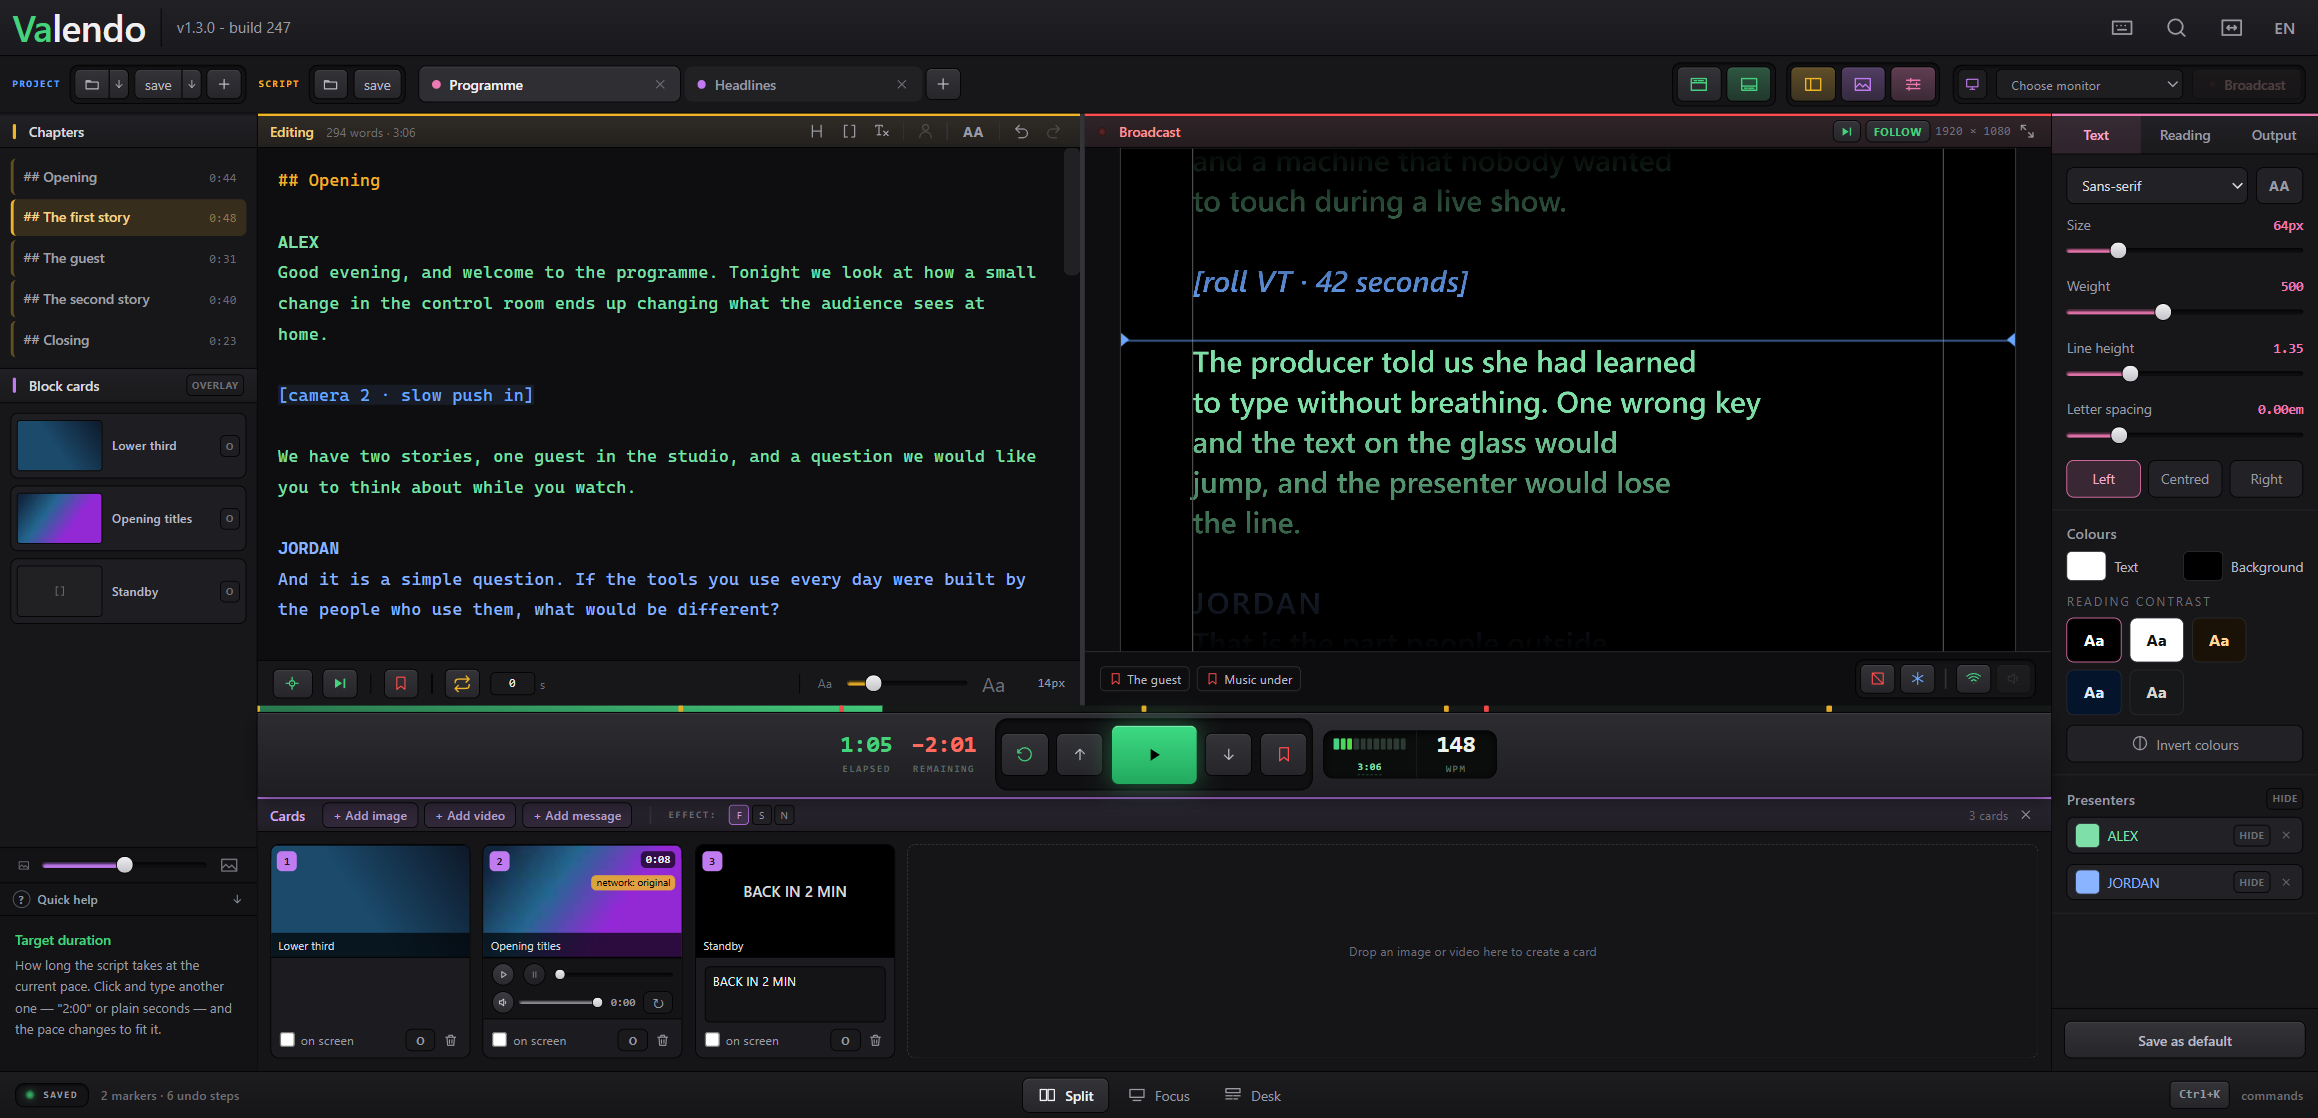
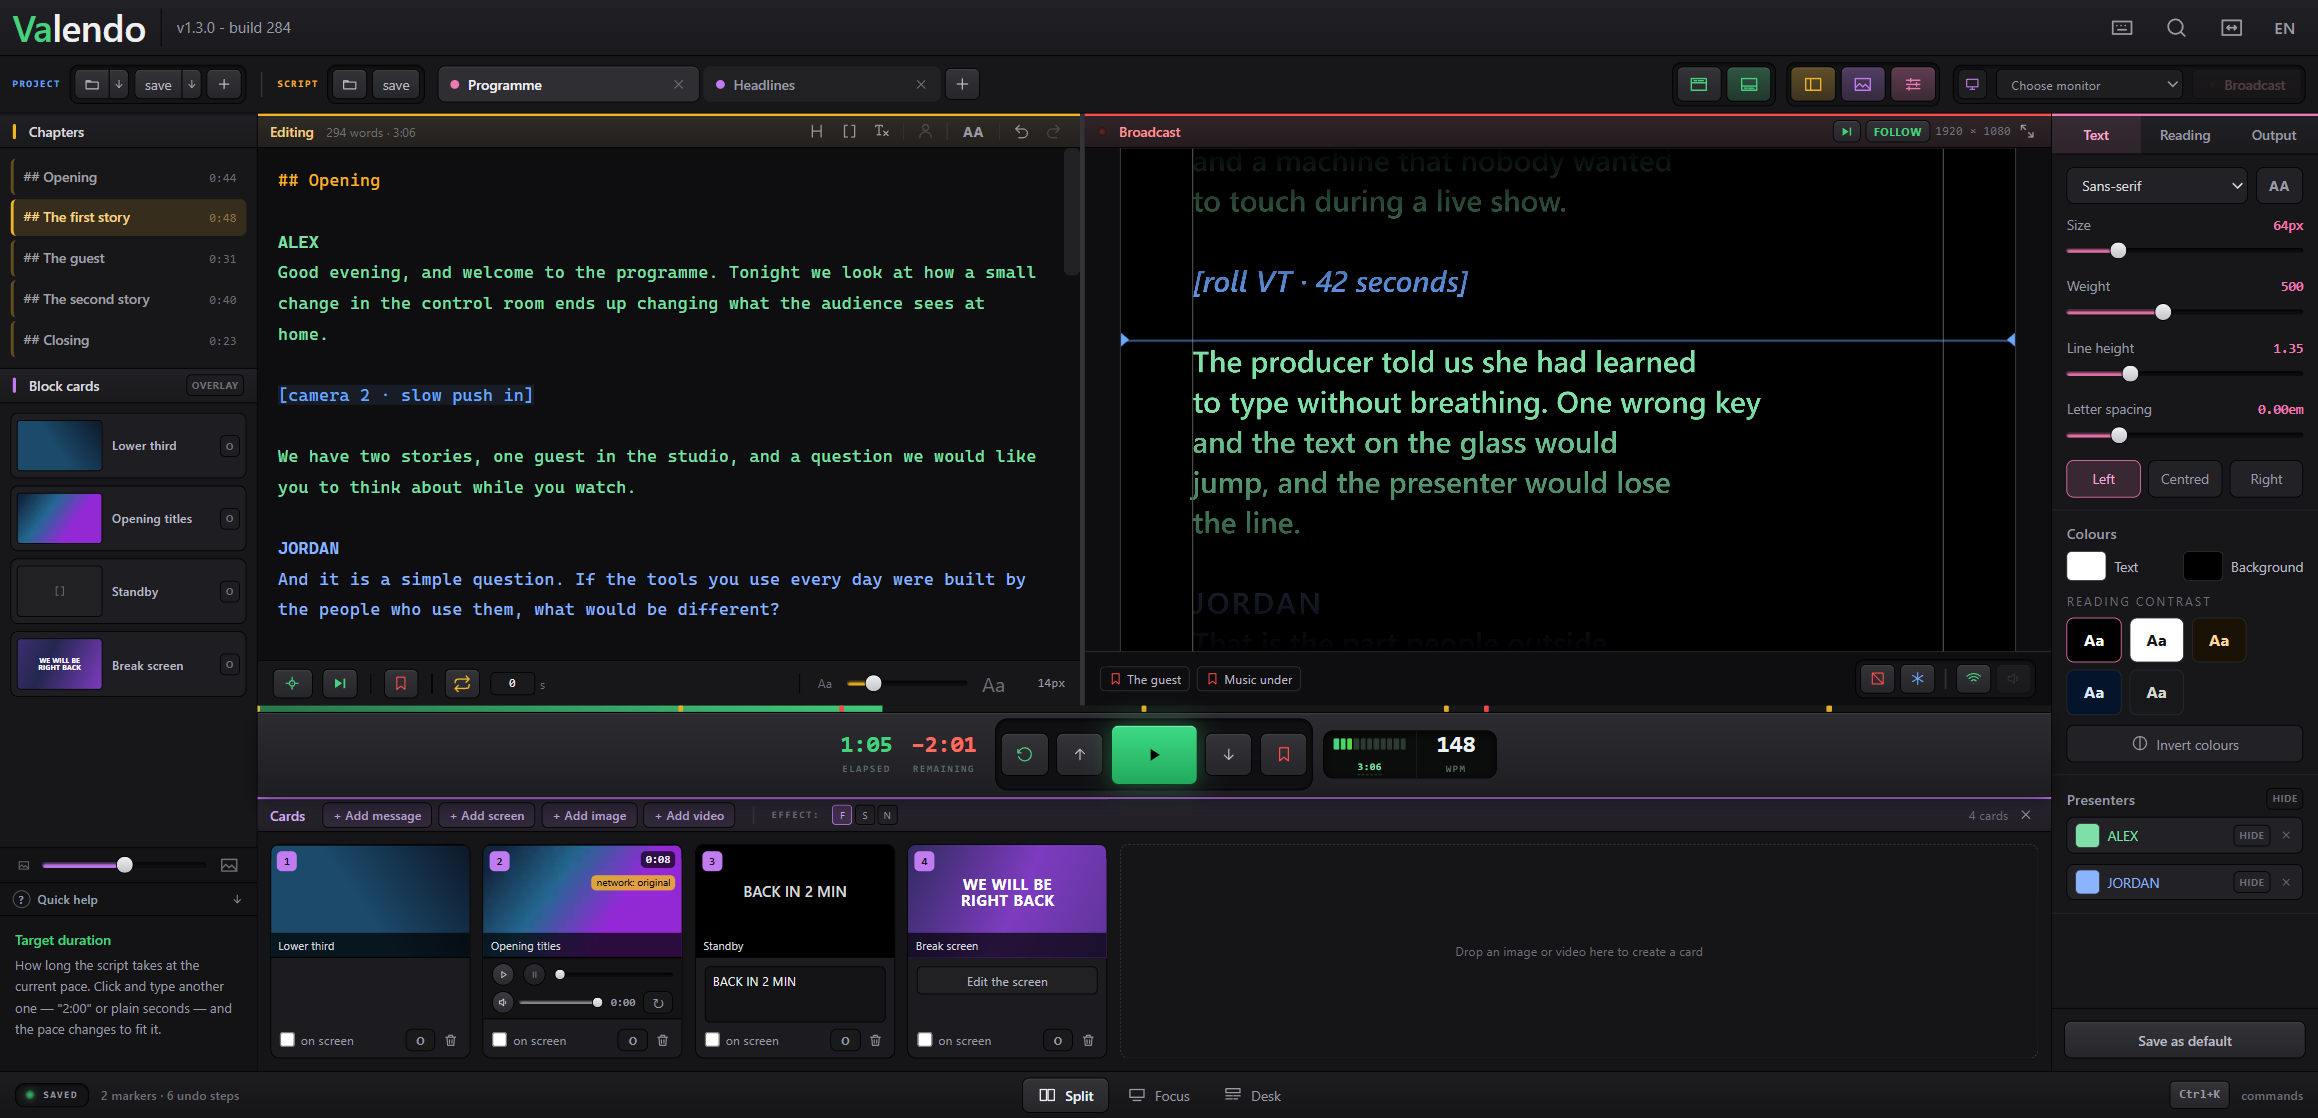
README e capturas: o cartão de tela e as abas que se arrastam
Duas coisas entraram no app depois da 1.3.0 e não estavam documentadas
em lugar nenhum: o CARTÃO DE TELA (cor, gradiente ou um dos seis fundos
animados, com recado por cima, sem arquivo nenhum) e as ABAS que se
duplicam pelo botão direito e se arrastam para reordenar.

A campanha ganhou cinco capturas: o editor de tela em janela e recortado,
a grade dos seis efeitos, a tela no ar, e o menu do botão direito na aba.
O cartão de tela entrou na montagem, então a gaveta agora fotografa os
QUATRO tipos.

Duas capturas estavam mentindo, e as duas pelo mesmo motivo — subir um
número fixo de níveis a partir de um filho deixou de chegar na fileira
quando o arrasto embrulhou cada item num wrapper próprio:

  d17-cards-row  saía com UM cartão, não com a fileira
  d06-tabs       saía com UMA aba, e o site a legendava como se fossem
                 as abas dos Ajustes

As duas passam a subir até o ancestral que contém DOIS itens, que acha a
fileira sem depender de quantas camadas de embrulho existem hoje.

De quebra: `cards.max` ("São seis cartões, o número de atalhos") saiu dos
seis dicionários. O teto de seis não existe mais — são nove ATALHOS e
cartões à vontade —, e a chave já não era usada por ninguém.

Feito com Claude Code

diff --git a/src/shared/i18n/es.ts b/src/shared/i18n/es.ts
@@ -454,7 +454,6 @@ export const es: Dicionario = {
   'cards.count_1': '{n} tarjeta',
   'cards.count_n': '{n} tarjetas',
   'cards.blackoutWins': 'La pantalla negra está encendida y tapa la tarjeta.',
-  'cards.max': 'Son seis tarjetas, el número de atajos.',
   'cmd.card.hide': 'Quitar la tarjeta de la pantalla',
   'cmd.card.show': 'Mostrar la tarjeta {n}',
 

diff --git a/src/shared/i18n/it.ts b/src/shared/i18n/it.ts
@@ -456,7 +456,6 @@ export const it: Dicionario = {
   'cards.count_1': '{n} cartello',
   'cards.count_n': '{n} cartelli',
   'cards.blackoutWins': 'Lo schermo nero è acceso e copre il cartello.',
-  'cards.max': 'Sei cartelli, quante sono le scorciatoie.',
   'cmd.card.hide': 'Togli il cartello dallo schermo',
   'cmd.card.show': 'Mostra il cartello {n}',
 

diff --git a/src/shared/i18n/fr.ts b/src/shared/i18n/fr.ts
@@ -456,7 +456,6 @@ export const fr: Dicionario = {
   'cards.count_1': '{n} carton',
   'cards.count_n': '{n} cartons',
   'cards.blackoutWins': 'L’écran noir est activé et recouvre le carton.',
-  'cards.max': 'Six cartons, autant que de raccourcis.',
   'cmd.card.hide': 'Retirer le carton de l’écran',
   'cmd.card.show': 'Afficher le carton {n}',
 

diff --git a/src/shared/i18n/de.ts b/src/shared/i18n/de.ts
@@ -456,7 +456,6 @@ export const de: Dicionario = {
   'cards.count_1': '{n} Karte',
   'cards.count_n': '{n} Karten',
   'cards.blackoutWins': 'Das Schwarzbild ist an und verdeckt die Karte.',
-  'cards.max': 'Sechs Karten, so viele wie Tastenkürzel.',
   'cmd.card.hide': 'Karte vom Bildschirm nehmen',
   'cmd.card.show': 'Karte {n} zeigen',
 

diff --git a/src/shared/i18n/pt.ts b/src/shared/i18n/pt.ts
@@ -485,7 +485,6 @@ export const pt = {
   'cards.count_1': '{n} cartão',
   'cards.count_n': '{n} cartões',
   'cards.blackoutWins': 'A tela preta está ligada e cobre o cartão.',
-  'cards.max': 'São seis cartões, o número de atalhos.',
   'cmd.card.hide': 'Tirar o cartão da tela',
   'cmd.card.show': 'Mostrar o cartão {n}',
 

diff --git a/src/shared/i18n/en.ts b/src/shared/i18n/en.ts
@@ -453,7 +453,6 @@ export const en: Dicionario = {
   'cards.count_1': '{n} card',
   'cards.count_n': '{n} cards',
   'cards.blackoutWins': 'The black screen is on and covers the card.',
-  'cards.max': 'Six cards, one per shortcut.',
   'cmd.card.hide': 'Take the card off screen',
   'cmd.card.show': 'Show card {n}',
 

diff --git a/README.md b/README.md
@@ -15,7 +15,7 @@
 | **The script** | Import `txt` `md` `docx` `pdf`, up to ten tabs, chapters, stage directions, markers, undo that survives closing the app |
 | **Timing** | Words per minute on a ruler, elapsed and remaining, a target duration the pace bends to meet, loop with a delay |
 | **The presenter's screen** | Any connected monitor, identified before you send a show to it, mirrored or rotated to suit the glass, and it survives being unplugged |
-| **Cards** | Images, video and messages — replacing the script or riding over it |
+| **Cards** | Images, video, messages, and standby screens the app draws itself — replacing the script or riding over it |
 | **The network** | One switch and any device on the wi-fi is a second prompter screen |
 | **The console** | Three working layouts, a command palette, remappable keys, interface zoom, six languages |
 
@@ -32,6 +32,12 @@ No other prompter lets you do this, and the reason is technical: they store the 
 Here nothing jumps. Fix a typo three paragraphs above the reading line, raise the type size, widen the margin: the word being read stays exactly where it is. That is what makes editing on air a normal thing to do instead of a stunt.
 
 Two marks are all the markup there is — `##` opens a chapter, `[square brackets]` make a stage direction that is never counted as words to be spoken.
+
+Each tab is a separate script with its own appearance and markers, and only the active one goes on air. Right-click one to duplicate it — the rehearsed version and the one about to run, side by side — to rename it, or to close it. Drag them to put the running order in the order it will actually run.
+
+<p align="center">
+  <img src="docs/screenshots/d28-tab-menu.png" width="300" alt="Right-clicking a tab: duplicate, rename, close" />
+</p>
 
 <p align="center">
   <img src="docs/screenshots/d08-chapters.png" width="240" alt="The chapter list with a duration for each" />
@@ -64,6 +70,22 @@ Images, video and messages reach the presenter's screen with one click or a numb
 ![The cards drawer with an image, a video and a message](docs/screenshots/d17-cards-row.png)
 
 Video plays the file as it arrived whenever the browser can handle it. When it cannot, ffmpeg first tries to change only the container — seconds, no pixel touched — and re-encodes only when the content genuinely will not fit an mp4.
+
+---
+
+## A standby screen without opening Photoshop
+
+![The screen editor: a live preview above the controls that change it](docs/screenshots/d29-screen-editor.png)
+
+The fourth kind of card is one **the app draws itself**. A colour, or two colours and an angle, or one of six slow animated backgrounds — drift, breathe, sweep, waves, bars, dust — with a message over it if you want one. Nothing to import, nothing to keep beside the project, nothing to break when a folder moves.
+
+That is the real difference, and it is not about looks: an image card points at a **file**, a screen card is a **handful of numbers**. It weighs nothing inside the `.valendo`, has no link that can go stale, needs no lighter copy made for the network, and the same numbers draw it at 176 pixels in the drawer and at full resolution on the presenter's monitor.
+
+The six effects are slow on purpose — a restless background argues with whoever is reading — and two sliders scale the whole set at once: how fast it moves, and how much the movement shows over the base colour.
+
+<p align="center">
+  <img src="docs/screenshots/d30-screen-effects.png" width="380" alt="The six animated backgrounds" />
+</p>
 
 ---
 
@@ -122,10 +144,11 @@ It also greets you in the language of your operating system, and lets you change
 | Pacing | Formula (words ÷ WPM), stopwatch, free run; elapsed, remaining and target duration |
 | Appearance | Family, size, weight, line height, letter spacing, ALL CAPS, margin, horizontal position, words per line, alignment, colour presets, invert, reading-contrast swatches |
 | Output | Monitor picker, identify displays, hot-plug survival, mirror X/Y, rotation, blackout, freeze |
-| Cards | Image, video, message; overlay per card and globally; band/shadow/none; drag to reorder; video scrub, loop, volume, relink |
+| Cards | Image, video, message, screen; overlay per card and globally; band/shadow/none; drag to reorder; video scrub, loop, volume, relink |
+| Screens | Flat, gradient with angle and fade distance, six animated backgrounds; speed and intensity; message with size, colour, alignment and placement |
 | Network | Local page with QR, five video weight profiles, only the on-air tab is published |
 | Files | Import `txt` `md` `docx` `pdf`; export `txt` `md` `docx` `pdf`; `.valendo` projects; recent projects; autosave |
-| Editing | Infinite undo, persisted across sessions; strip formatting; up to 10 tabs |
+| Editing | Infinite undo, persisted across sessions; strip formatting; up to 10 tabs, duplicated or dragged into order |
 | Console | Command palette, remappable keys, UI scale, transport at the top or in the footer bar |
 | Languages | English, Portuguese (Brazil), Spanish, German, French, Italian |
 
